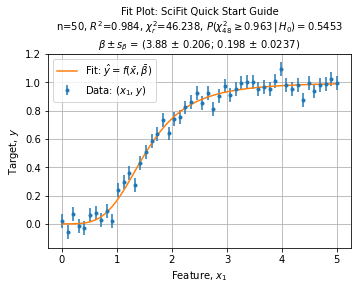
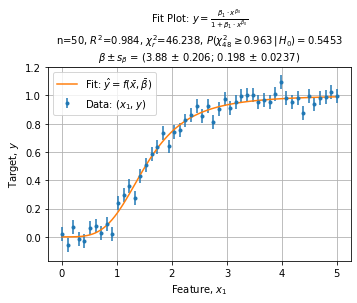
Updated documentation

Changed region(s): [[0.0, 0.0, 0.986, 0.9931], [0.0616, 0.2793, 0.1232, 0.3414]]

diff --git a/scifit/solvers/scientific.py b/scifit/solvers/scientific.py
@@ -228,6 +228,8 @@ class HillEquationFitSolver(FitSolver1D):
     `Hill equation model (biochemistry) <https://en.wikipedia.org/wiki/Hill_equation_(biochemistry)>`_
     """
 
+    _model_equation = r"y = \frac{\beta_1 \cdot x^{\beta_0}}{1 + \beta_1 \cdot x^{\beta_0}}"
+
     @staticmethod
     def model(x, n, k):
         """

diff --git a/README.md b/README.md
@@ -47,7 +47,7 @@ data = solver.synthetic_dataset(
 solution = solver.fit(data)
 
 # Render results:
-axe = solver.plot_fit(title="SciFit Quick Start Guide")
+axe = solver.plot_fit()
 ```
 
 ![Fit figure](./docs/source/media/branding/FitFigure.png)

diff --git a/CHANGES.md b/CHANGES.md
@@ -14,6 +14,9 @@
  - [ ] Give a try to Kivy in another package (userflow first)
  - [x] Find out why references are not all updated in report
 
+
+## v0.1.13
+
 ## v0.1.12
 
  - [x] Remove dimension argument from scales
